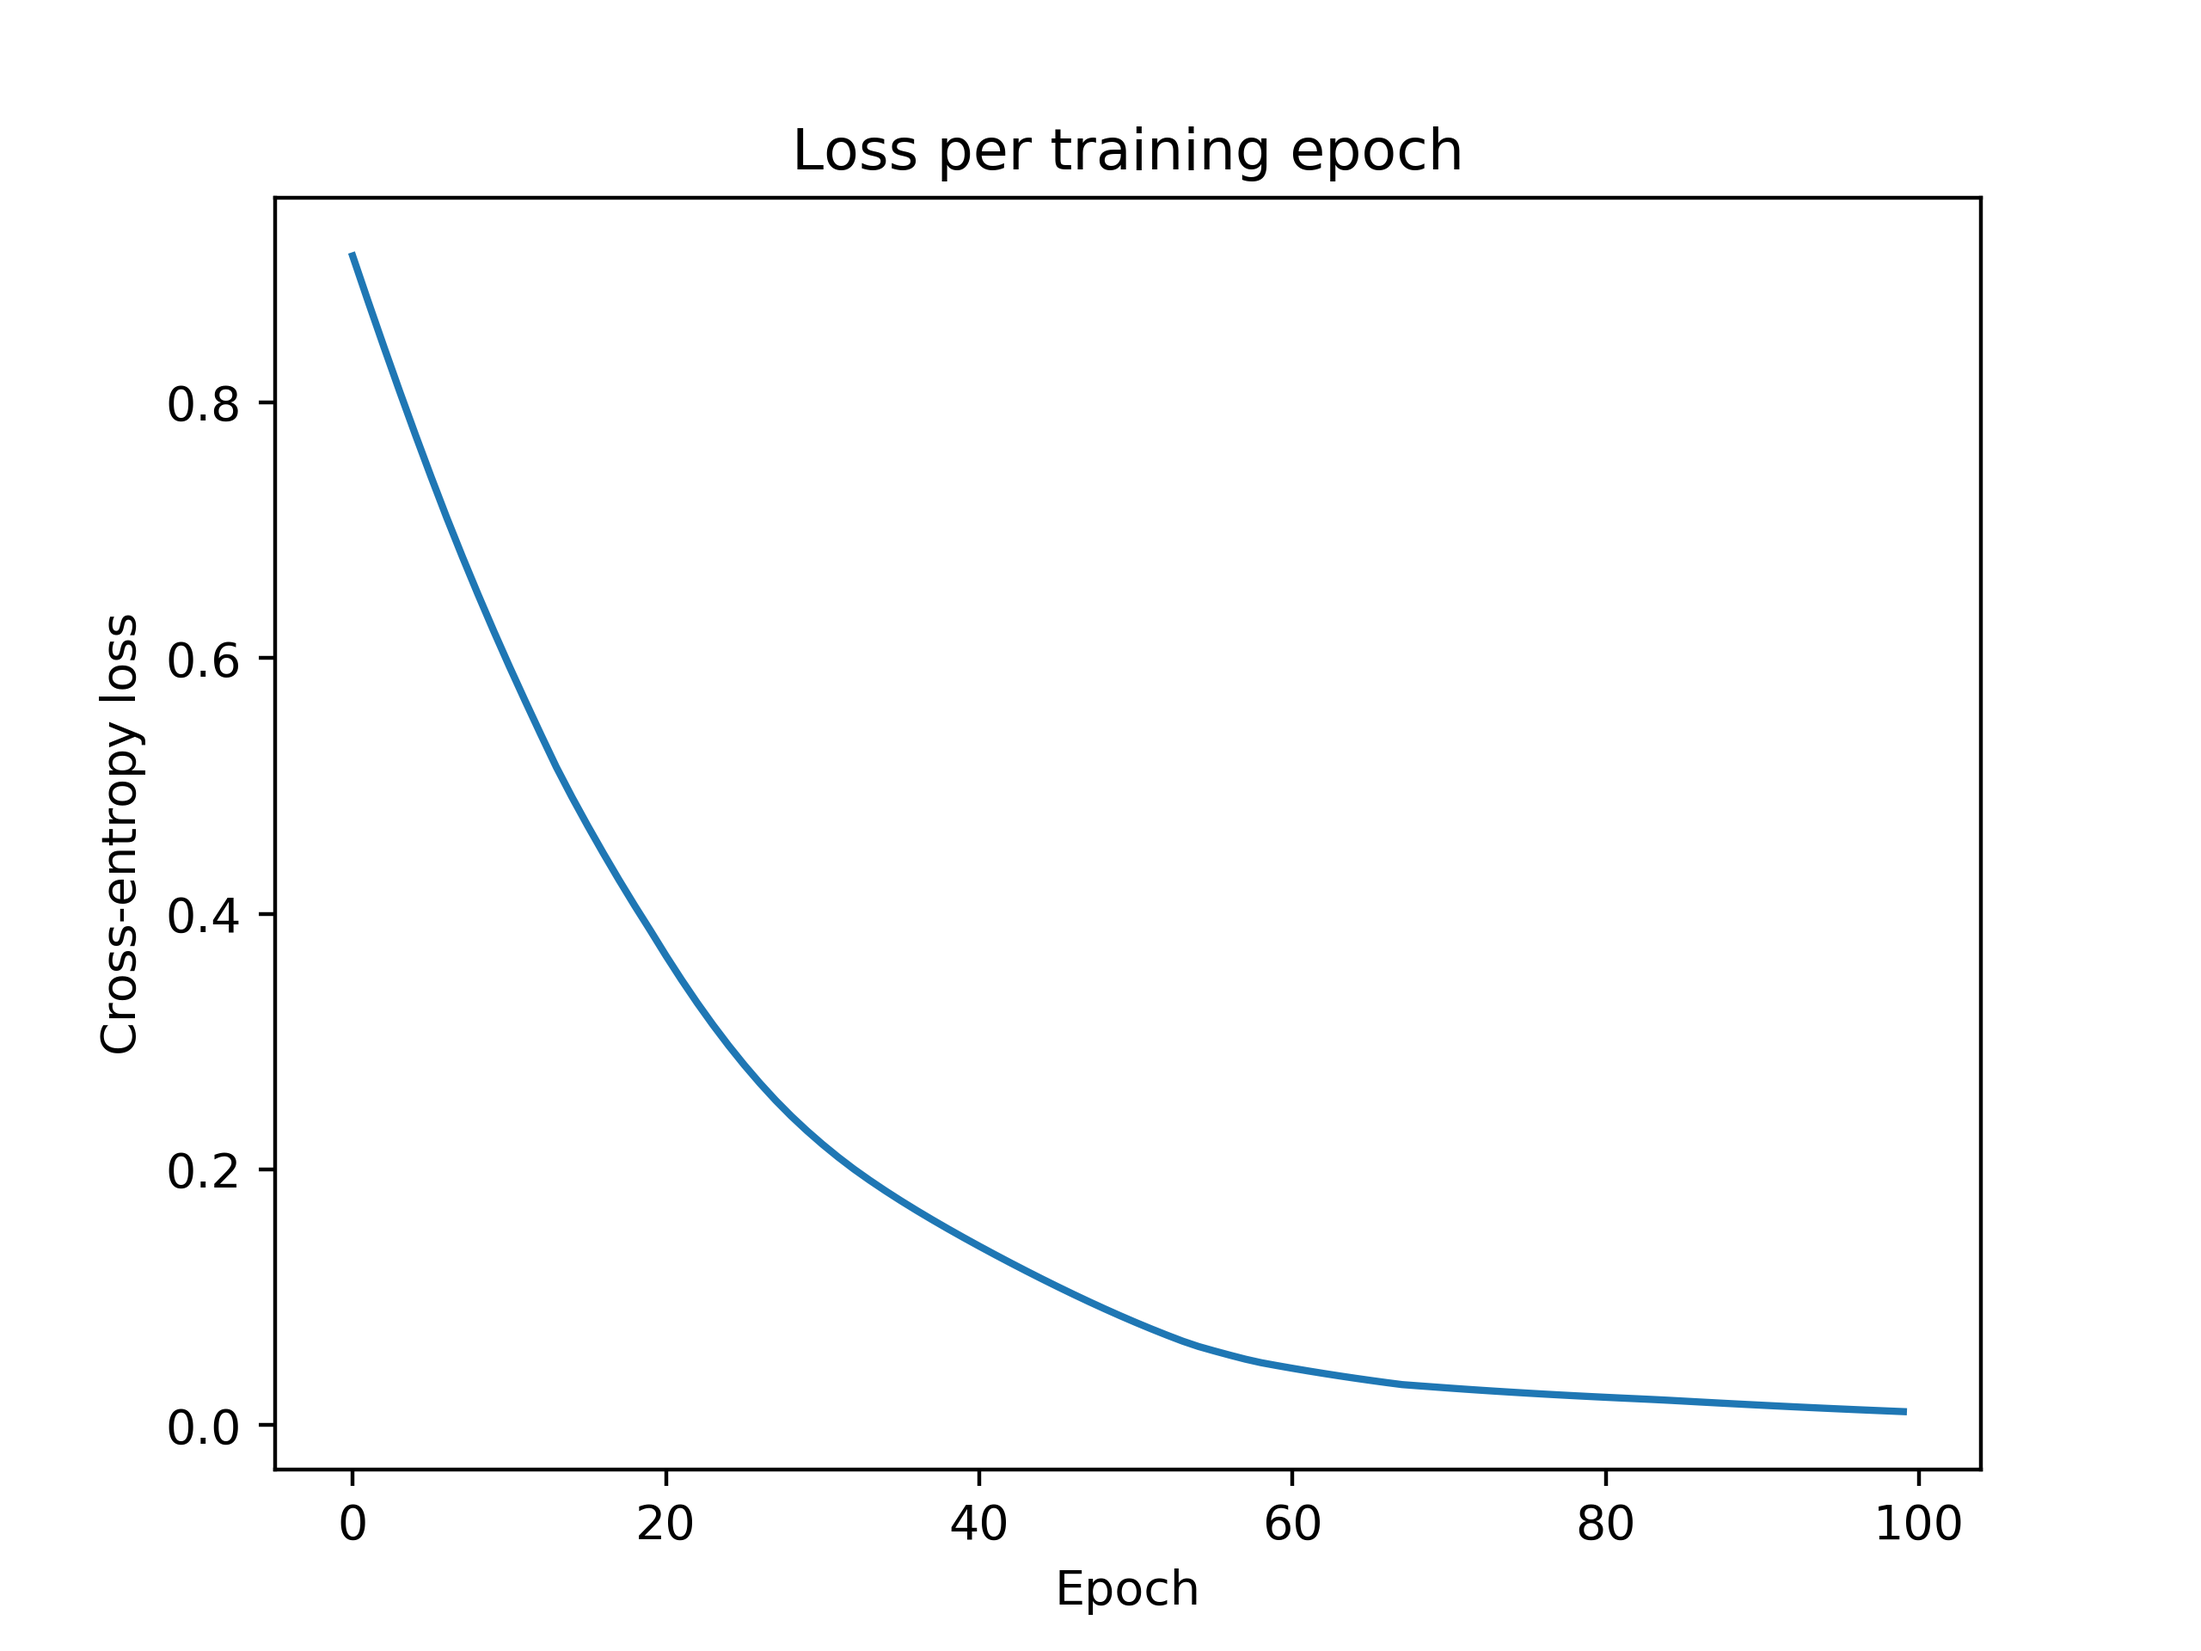
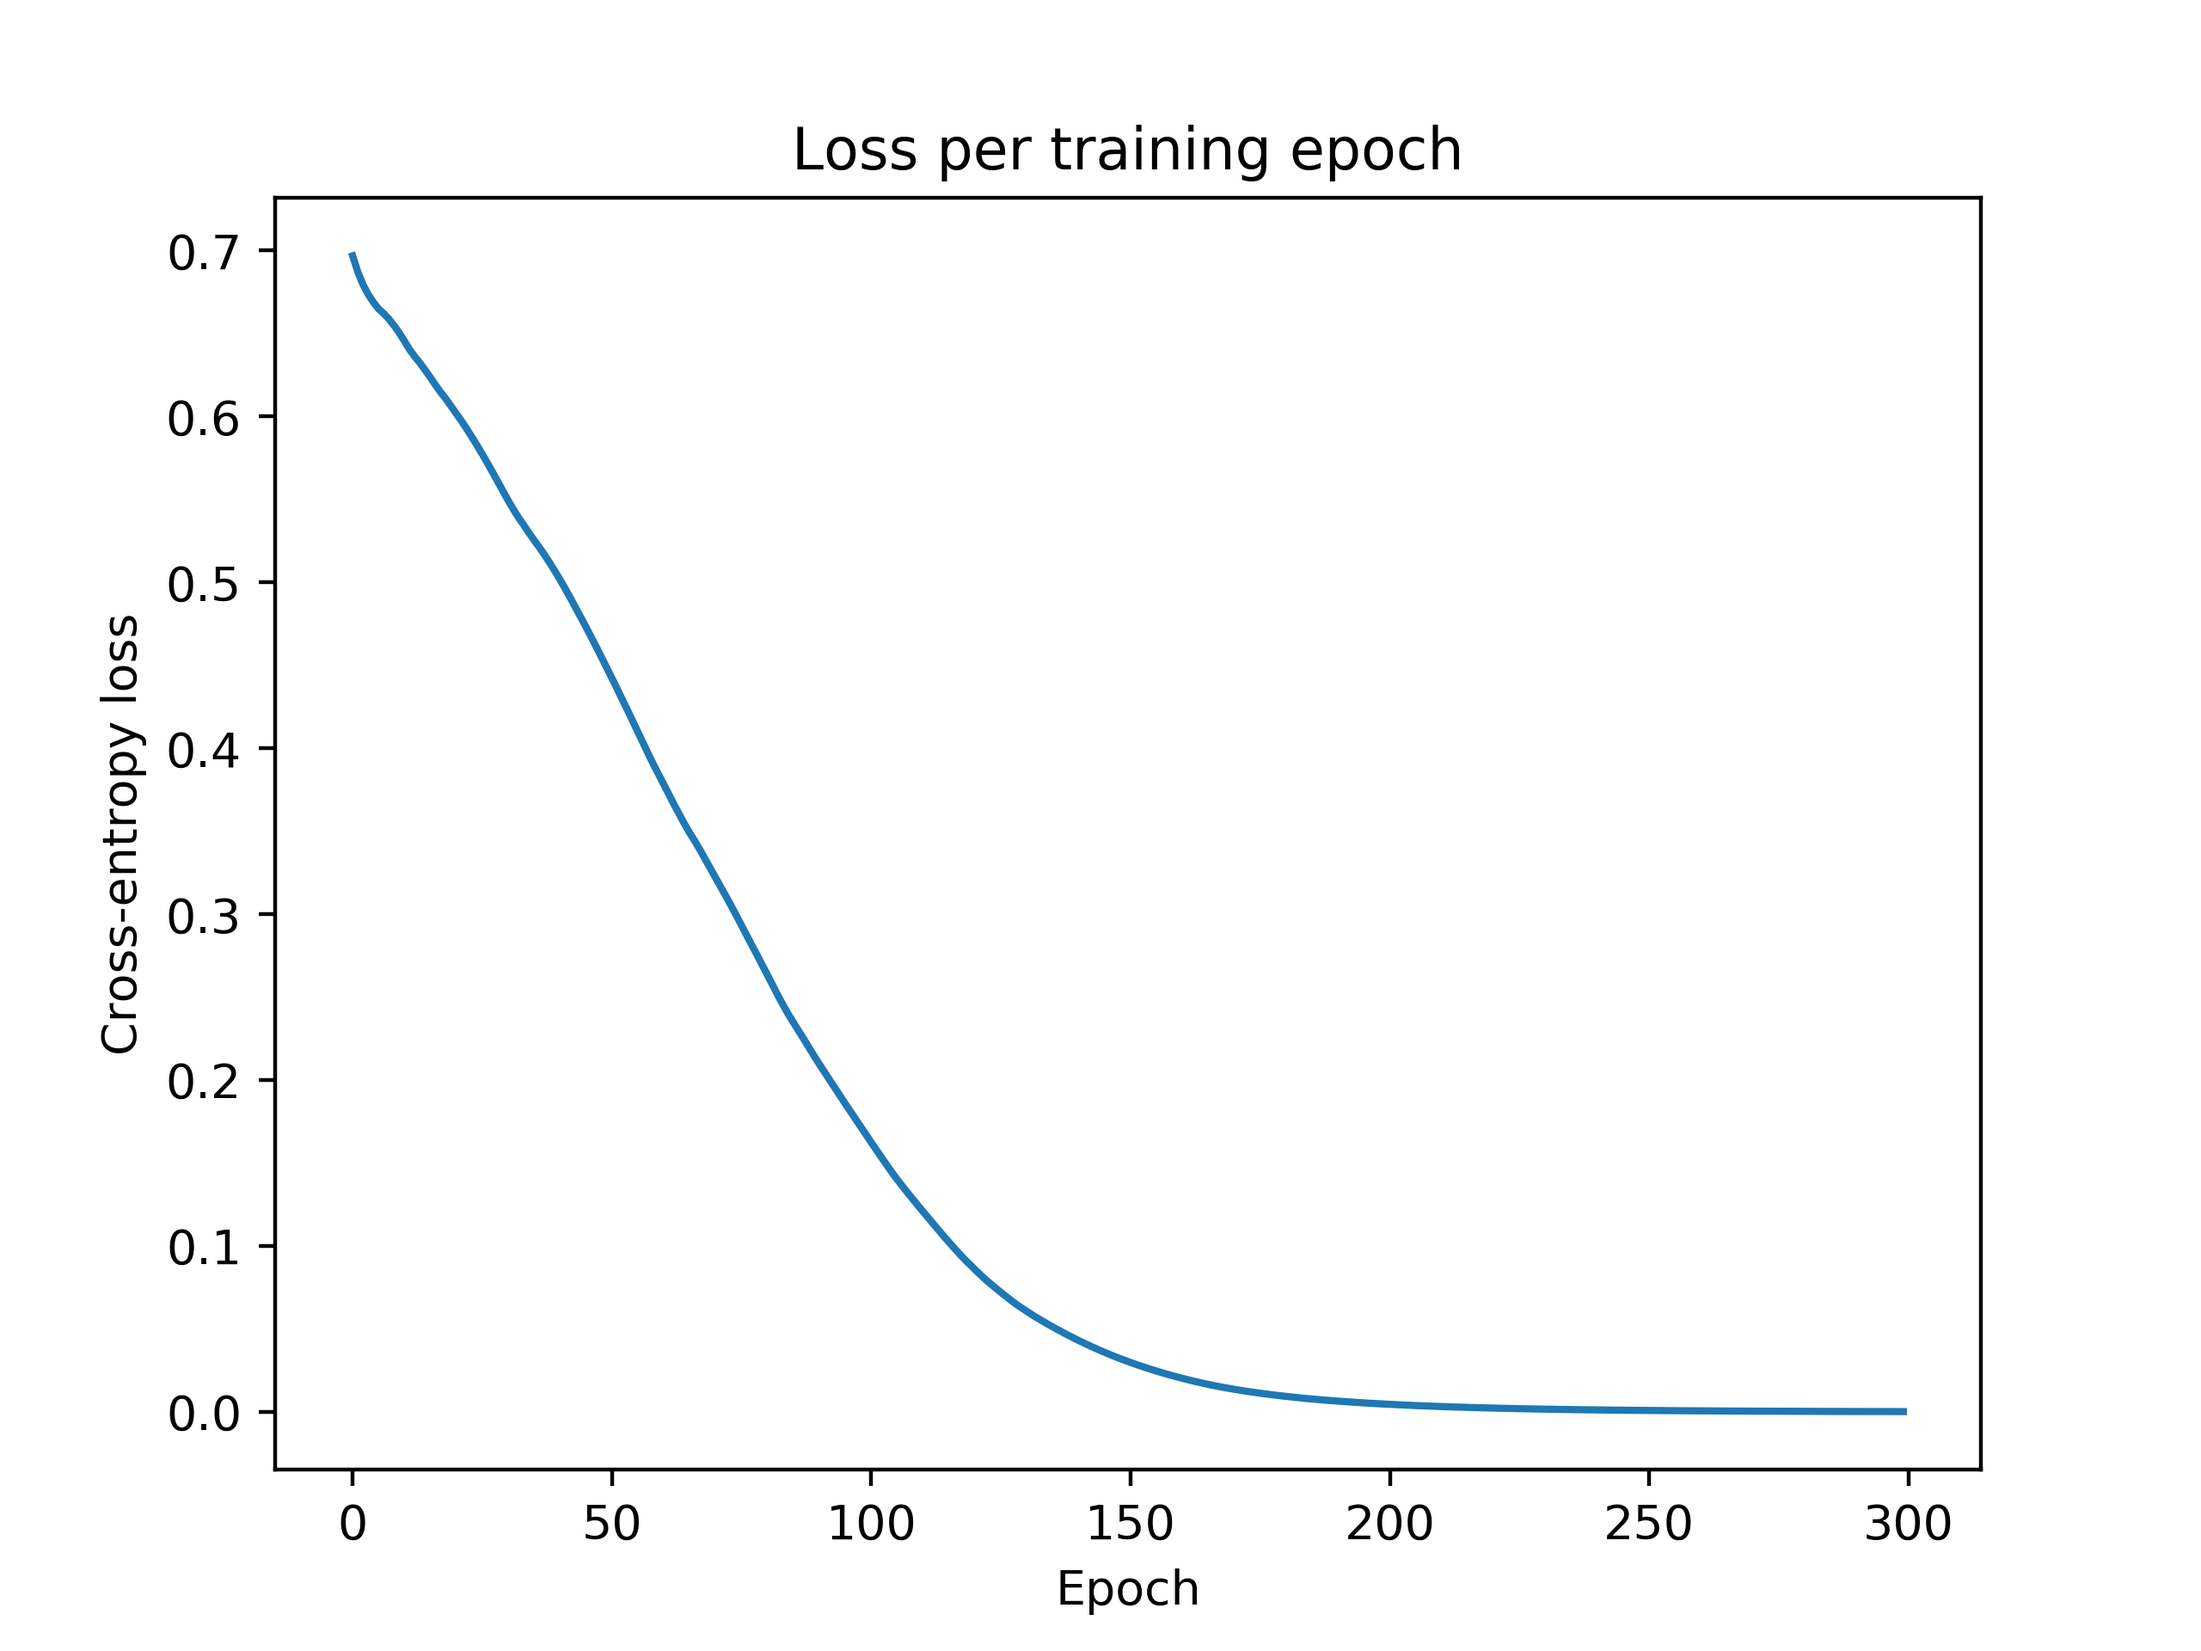
making some slight corrections

diff --git a/week2/nn.py b/week2/nn.py
@@ -79,7 +79,7 @@ class NN:
 
         # During gradient calculations, we only need the activated-output of the first layer
         if partial:
-            return phi
+            return phi, np.dot(input, W_0) + b_0
 
         else:
             return np.dot(phi, W_1) + b_1
@@ -126,19 +126,22 @@ class NN:
         """
         # For an explanation of what is going on, please see the "Derivation of the backprop algorithm" section of
         # the README.
-        relu_output = self.forward_pass(input=input, partial=True)
+        relu_output, non_activation = self.forward_pass(input=input, partial=True)
 
         dL_dsoftmax = self.softmax_grad(y_pred=y_pred, y_actual=y_actual)
 
         grad = [dict() for i in range(len(self.weights))]
 
-        dL_db_1 = dL_dsoftmax
+        dL_db_1 = np.sum(dL_dsoftmax, axis=0, keepdims=True) / input.shape[0]
 
-        dL_dW_1 = np.dot(relu_output.T, dL_dsoftmax)
+        dL_dW_1 = np.dot(relu_output.T, dL_dsoftmax) / input.shape[0]
 
-        dL_db_0 = np.dot(dL_db_1, self.weights[1]['W'].T)
+        # gradient in layer ahead * weights in layer ahead.T * deriv of ReLU
+        dx = (non_activation > 0).astype(float)
+        dL_db_0 = np.sum(np.dot(dL_dsoftmax, self.weights[1]['W'].T) * dx, axis=0, keepdims=True)
 
-        dL_dW_0 = np.dot(input.T, dL_db_0)
+        # gradient in layer ahead * input data
+        dL_dW_0 = np.dot(input.T, np.dot(dL_dsoftmax, self.weights[1]['W'].T) * dx)
 
         grad[0]['W'] = dL_dW_0
         grad[0]['b'] = dL_db_0

diff --git a/week2/xor_problem.py b/week2/xor_problem.py
@@ -21,14 +21,14 @@ train_samples = np.array([
 train_labels = np.array([0, 1, 1, 0])
 
 # Initializing our neural networl and ADAM classes
-nn = NN(input_length=2, n_hidden_units=10, n_outputs=2, seed=111)
+nn = NN(input_length=2, n_hidden_units=10, n_outputs=2, seed=1111)
 adam = ADAM(layer_dims=nn.layer_dims, alpha=0.01, beta_m=0.99, beta_v=0.999, epsilon=0.00001)
 
 # Running our training loop for 100 epochs with the entirety of our training data at each batch
 # We'll also be keeping track of our loss at each step...
 historical_losses = list()
 
-for _ in range(100):
+for _ in range(300):
     output = nn.forward_pass(input=train_samples)
     sm_output = nn.softmax(input=output)
     loss = cross_entropy_loss(y_pred=sm_output, y_actual=train_labels)

diff --git a/week2/optimizer.py b/week2/optimizer.py
@@ -64,7 +64,6 @@ class ADAM:
             None. the network's weights are mutable, so this method will actually be mutating the weights of the
             network directly, assuming a direct reference to them was passed to the "weights" argument
         """
-
         for i in range(len(weights)):
             for param in weights[i].keys():
                 self.m[i][param] = self.beta_m * self.m[i][param] + (1 - self.beta_m) * gradient[i][param]
